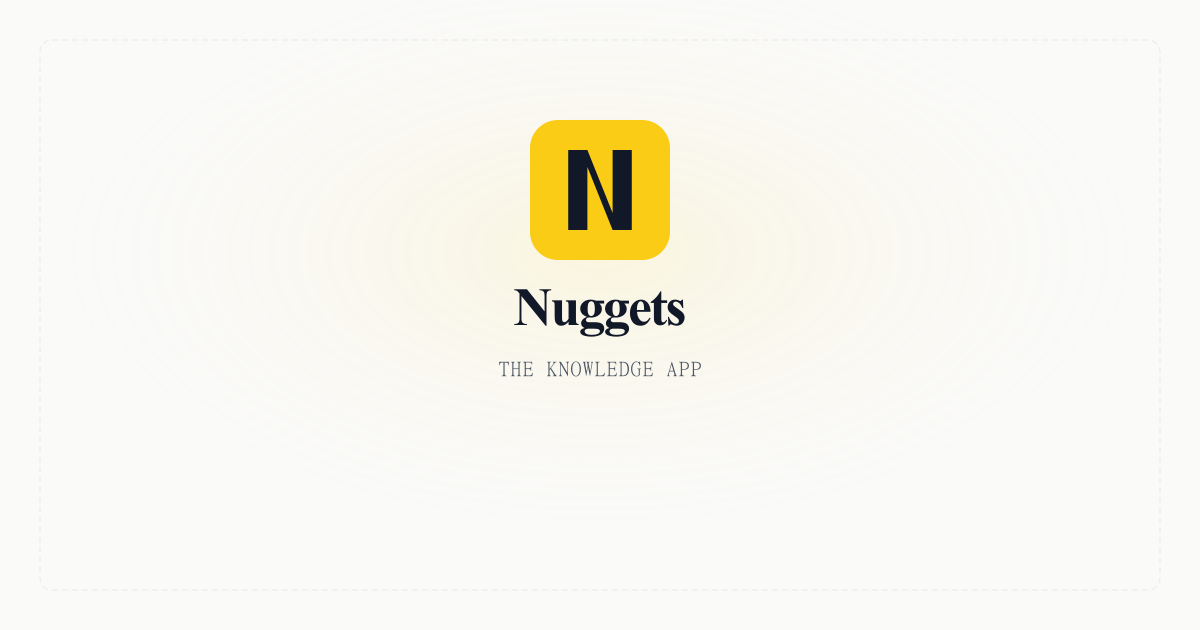
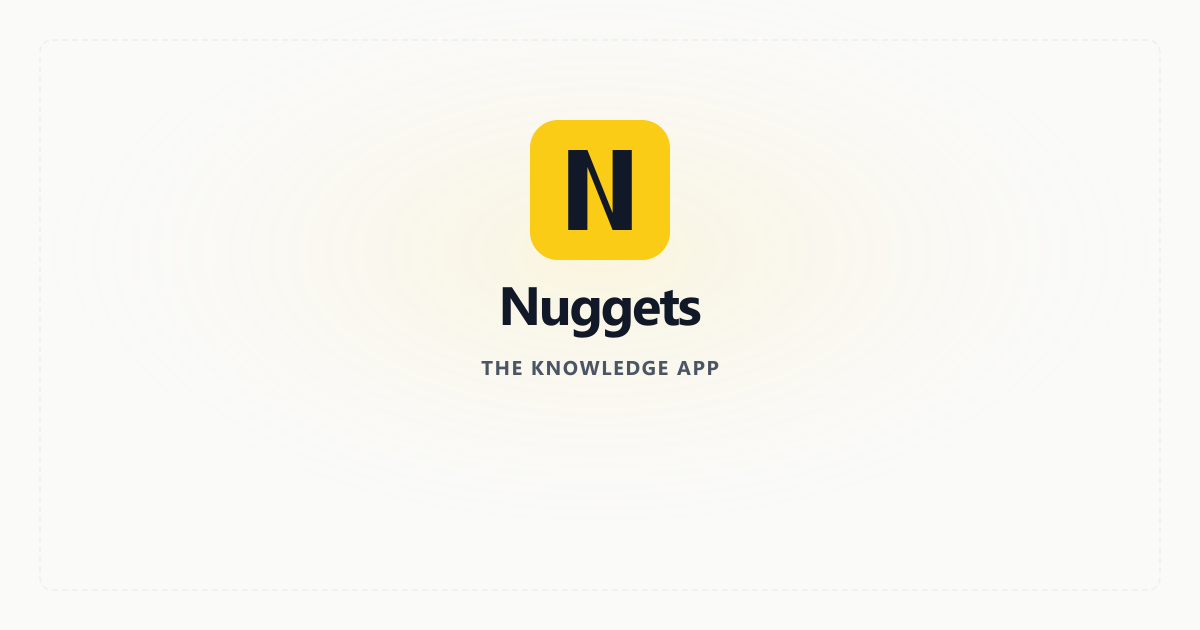
feat(website): refresh default OG image and home share description
Update OG fallback typography, bump OG cache-bust version to 4, and align Open Graph/Twitter copy with Markets, Investments, AI and Geopolitics positioning.

Changed region(s): [[0.4008, 0.4524, 0.5858, 0.5429], [0.4008, 0.573, 0.6167, 0.6032]]

diff --git a/app/(main)/page.tsx b/app/(main)/page.tsx
@@ -23,6 +23,8 @@ import { getDefaultOgImageUrl, getSiteUrl } from '@/lib/seo/site-url'
 const HOME_TITLE = 'Nuggets: The Knowledge App'
 const HOME_DESCRIPTION =
   'Hand-curated reads across technology, markets, and ideas. Standard and Market Pulse streams.'
+const HOME_OG_DESCRIPTION =
+  'Curated reads across Markets, Investments, AI & Geopolitics'
 const homeOgImage = getDefaultOgImageUrl()
 
 export const metadata: Metadata = {
@@ -32,7 +34,7 @@ export const metadata: Metadata = {
   description: HOME_DESCRIPTION,
   openGraph: {
     title: HOME_TITLE,
-    description: 'Hand-curated reads across technology, markets, and ideas.',
+    description: HOME_OG_DESCRIPTION,
     url: getSiteUrl(),
     siteName: 'Nuggets',
     type: 'website',
@@ -41,7 +43,7 @@ export const metadata: Metadata = {
   twitter: {
     card: 'summary_large_image',
     title: HOME_TITLE,
-    description: 'Hand-curated reads across technology, markets, and ideas.',
+    description: HOME_OG_DESCRIPTION,
     images: [homeOgImage],
   },
 }

diff --git a/lib/seo/site-url.ts b/lib/seo/site-url.ts
@@ -1,7 +1,7 @@
 const DEFAULT_SITE_URL = 'https://nuggets.one'
 
 /** Bump when `public/og-default.png` changes — busts WhatsApp/Facebook OG image cache. */
-export const OG_DEFAULT_ASSET_VERSION = 3
+export const OG_DEFAULT_ASSET_VERSION = 4
 
 /** Production canonical origin — no trailing slash. */
 export function getSiteUrl(): string {
